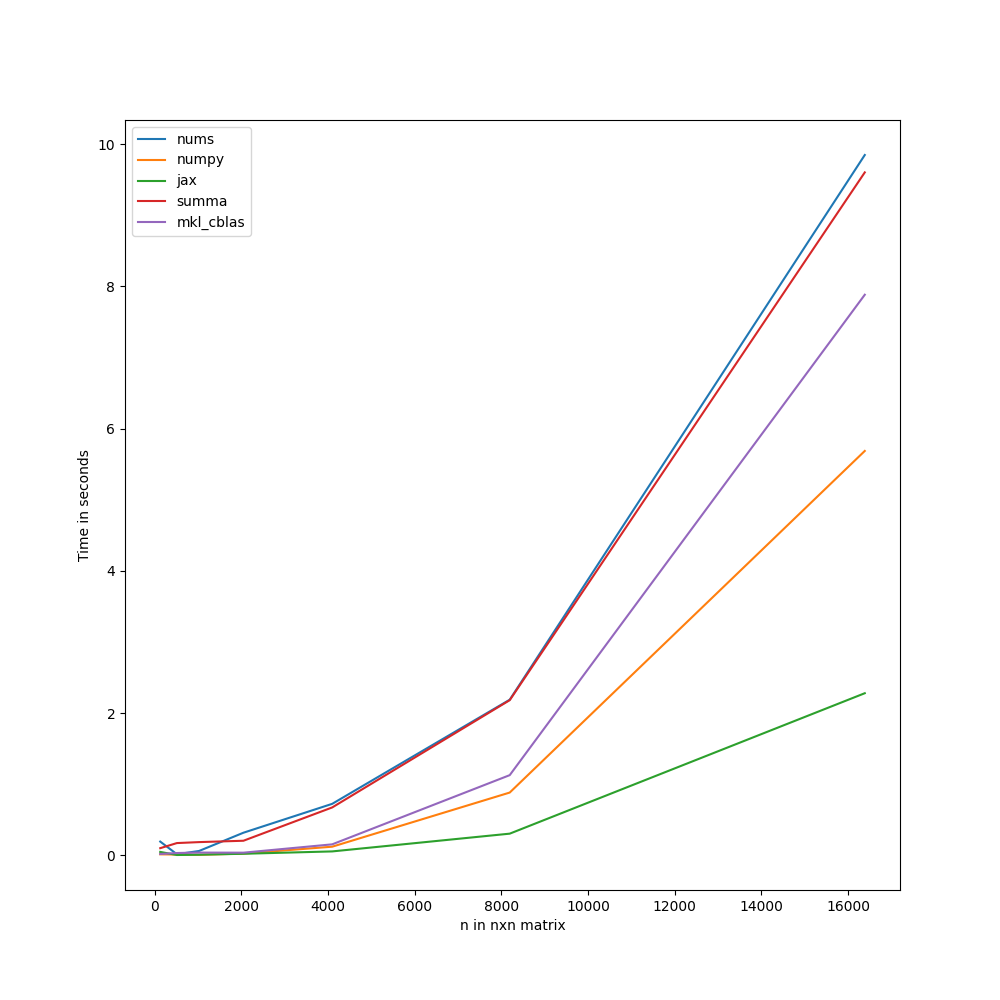
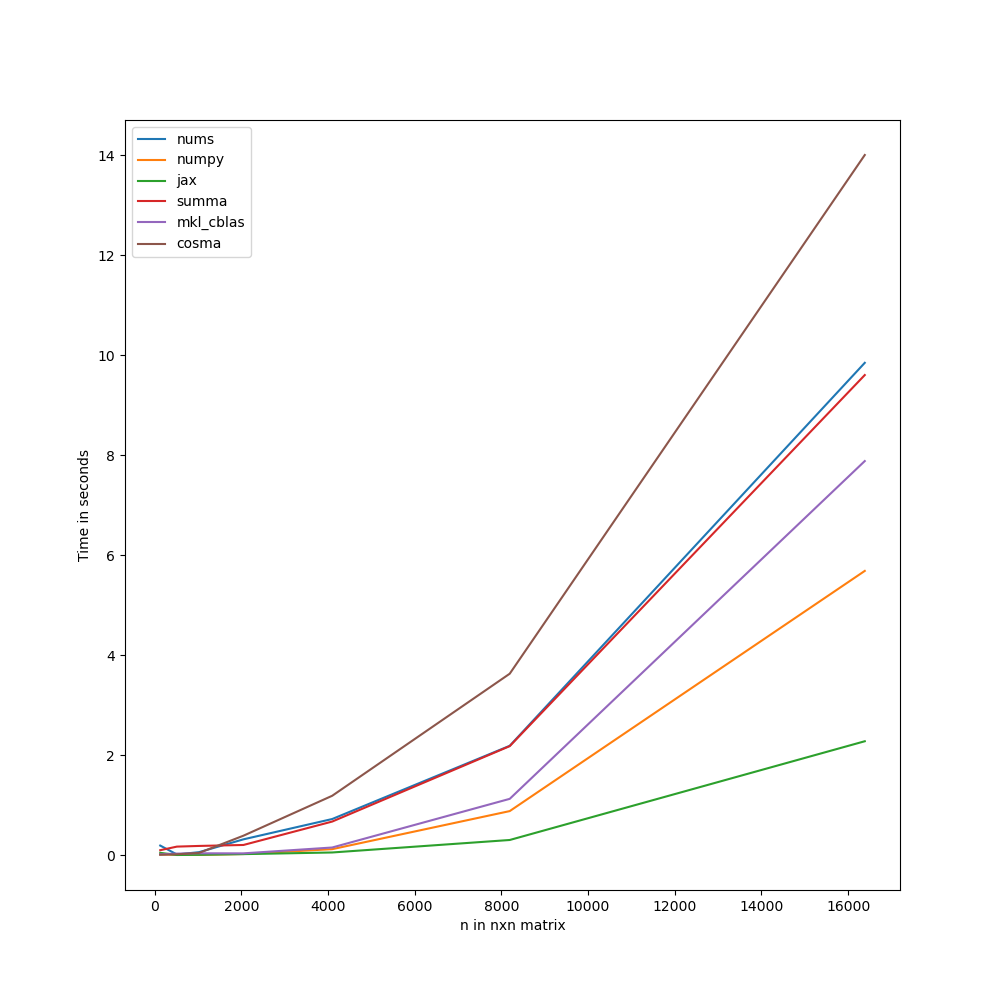
push cosma benchmarks

diff --git a/benchmark/plotter.py b/benchmark/plotter.py
@@ -6,6 +6,8 @@ jax = [0.0503544807434082, 0.006996631622314453, 0.010968208312988281, 0.0244386
 numpy = [0.01636219024658203, 0.013672590255737305, 0.010072708129882812, 0.026674270629882812, 0.12376141548156738, 0.8846476078033447, 5.68596887588501]
 mkl_cblas = [0.0216333, 0.0348459, 0.0410609, 0.039651, 0.156786, 1.12944, 7.88177]
 summa = [0.102857, 0.174629, 0.188206, 0.207394, 0.675447, 2.18323, 9.60133]
+cosma = [12 / 1000, 21 / 1000, 49/ 1000, 393 / 1000, 1191 / 1000, 3631 / 1000, 14000 / 1000]
+#scalapack = [12 / 1000, 21 / 1000, 49/ 1000, 393 / 1000, 1191 / 1000, 3631 / 1000, 14000 /10]
 
 plt.figure(figsize=(10, 10))
 plt.plot(sizes, nums)
@@ -13,7 +15,8 @@ plt.plot(sizes, numpy)
 plt.plot(sizes, jax)
 plt.plot(sizes, summa)
 plt.plot(sizes, mkl_cblas)
+plt.plot(sizes, cosma)
 plt.xlabel("n in nxn matrix")
 plt.ylabel("Time in seconds")
-plt.legend(["nums", "numpy", "jax", "summa", "mkl_cblas"])
+plt.legend(["nums", "numpy", "jax", "summa", "mkl_cblas", "cosma"])
 plt.savefig("benchmark.png")

diff --git a/benchmark/nums_benchmark.py b/benchmark/nums_benchmark.py
@@ -8,10 +8,12 @@ times = []
 for n in ns:
     A = nps.random.randn(n, n)
     B = nps.random.randn(n, n)
-
+    print(A.block_shape)
+    print(B.block_shape)
     start = time.time()
     C = A @ B
     C.touch()
+    
     end = time.time()
     
     print(end - start, end = ', ')
